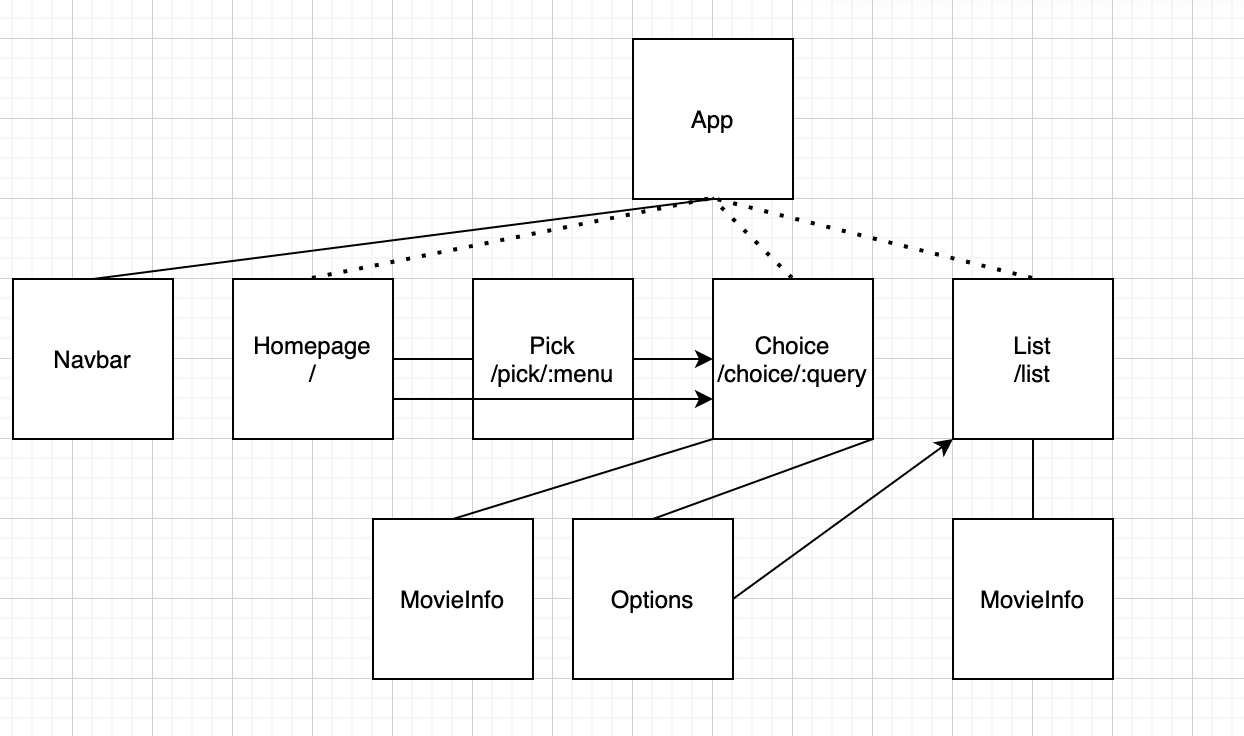
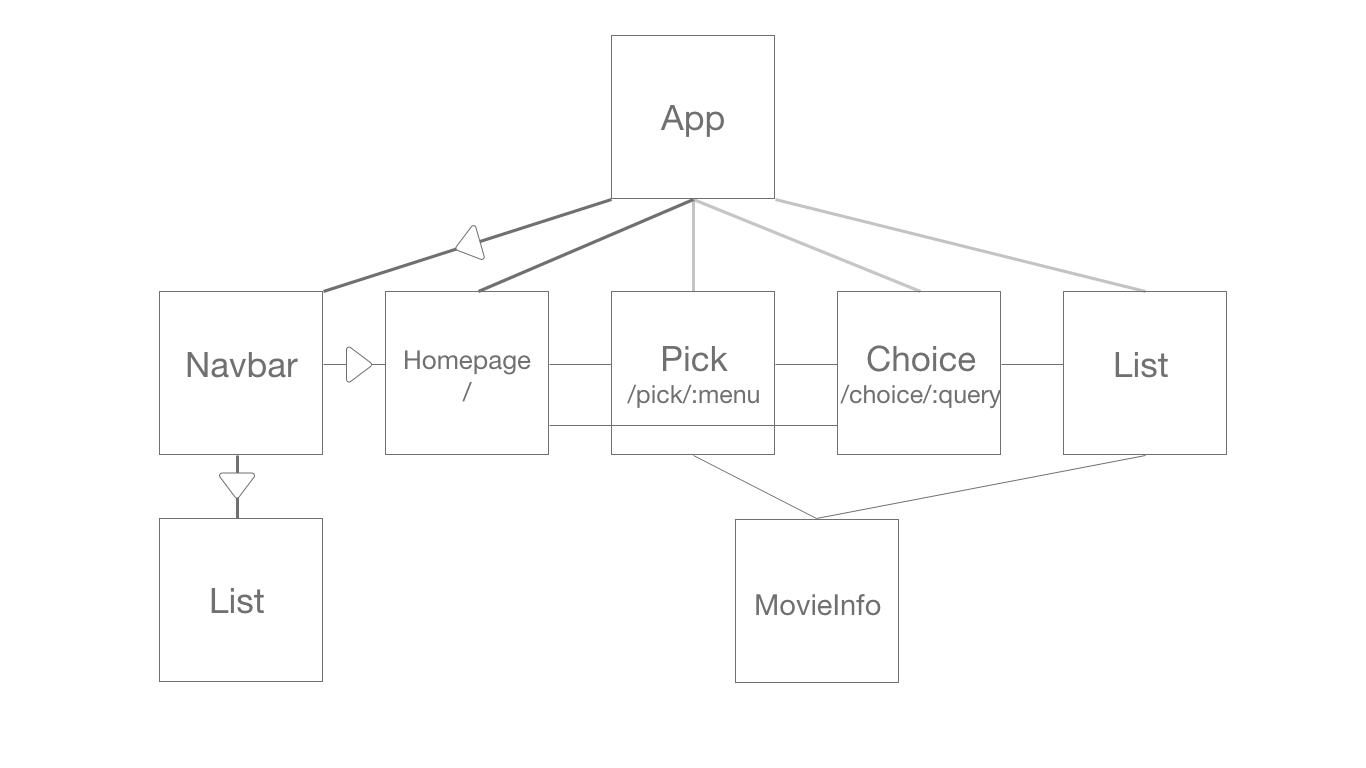
Building out 'Pick' react compenent & updated README.md

diff --git a/movie_picker/src/App.js b/movie_picker/src/App.js
@@ -1,17 +1,18 @@
 import React, { useState, useEffect } from "react";
 import axios from "axios";
-import { Link, Route } from "react-router-dom";
+import { Route } from "react-router-dom";
 //Componenets are imported below:
-// import Choice from './components/Choice/Choice'
+import Pick from './components/Pick/Pick'
 import Homepage from "./components/Homepage/Homepage";
 import List from "./components/List/List";
 import Navbar from "./components/Navbar/Navbar";
-import Options from "./components/Options/Options";
+import Choices from "./components/Choices/Choices";
 //import ".App.css"
 
 
 function App() {
-  const [fetchList, setFetchList] = useState([]);
+  const [fetchList, setFetchList] = useState(false);
+  const [list, setList] = useState([]);
   // toggle the useEffect
   useEffect(() => {
     const getList = async () => {
@@ -21,11 +22,11 @@ function App() {
           Authorization: `Bearer ${process.env.REACT_APP_AIRTABLE_KEY}`,
         },
       });
-      setFetchList(response.data.records);
+      setList(response.data.records);
     };
     getList();
     // toggle the useEffect
-  }, []);
+  }, [fetchList]);
 
   return (
     <div className="App">
@@ -38,12 +39,21 @@ function App() {
           <Route exact path="/">
             <Homepage />
           </Route>
-          <Route path="/options">
-            <Options />
+          <Route path="/pick">
+            <Pick />
+          </Route>
+          <Route path="/Choices">
+            <Choices
+              setFetchList={setFetchList}
+              fetchList={fetchList} />
           </Route>
           <div className="myList">
             <Route path="/list">
-              <List fetchList={fetchList} />
+              <List
+                list={list}
+                setFetchList={setFetchList}
+                setList={setList}
+                fetchList={fetchList} />
             </Route>
           </div>
         </div>

diff --git a/movie_picker/src/components/Choices/Choices.jsx b/movie_picker/src/components/Choices/Choices.jsx
@@ -3,9 +3,9 @@ import axios from 'axios';
 // import { Link, Route } from 'react-router-dom'
 
 
-function Options(props) {
+function Choices(props) {
     const [popEndpoint, fetchPopEndpoint] = useState([]);
-
+    const [added, setAdded] = useState(false)
     useEffect(() => {
         const popularMovies = async () => {
             const popularMoviesEndpoint = await axios.get(
@@ -19,20 +19,21 @@ function Options(props) {
     console.log(popEndpoint)
 
     const handleSubmit = async (movie) => {
+        setAdded(true);
         let image = `https://image.tmdb.org/t/p/w500${movie.poster_path}`
         const fields = {
             title: movie.title,
             poster: image,
             userRating: movie.vote_average,
         };
-        const airTableURL = `https://api.airtable.com/v0/${process.env.
-            REACT_APP_AIRTABLE_BASE}/list`
+        const airTableURL = `https://api.airtable.com/v0/${process.env.REACT_APP_AIRTABLE_BASE}/list`
         await axios.post(airTableURL, { fields }, {
             headers: {
                 Authorization: `Bearer ${process.env.REACT_APP_AIRTABLE_KEY}`
             },
         });
-        // props.setFetchReviews(!props.setFetchReviews);
+        props.setFetchList(!props.fetchList);
+        // setAdded(false);
     }
 
     console.log(popEndpoint)
@@ -44,12 +45,12 @@ function Options(props) {
                 <p className="title">{movie.title} <br /></p>
                 <p className="plotSummary">{movie.overview} <br /></p>
                 <p className="userScore" >User ratings: {movie.vote_average}/10</p>
-                <button onClick={() => handleSubmit(movie)}>Add to My List!</button>
+                <button className="button" onClick={() => handleSubmit(movie)}>{added ? "Added to My List!" : "Add to My List"}</button>
             </div>
         ))
     );
 }
 
-export default Options;
+export default Choices;
 
 //

diff --git a/movie_picker/src/components/Homepage/Homepage.jsx b/movie_picker/src/components/Homepage/Homepage.jsx
@@ -4,23 +4,19 @@ function Homepage(props) {
 
     return (
         <>
-            <div className="homePageTitle">
-                <h1>Movie Quest!</h1>
-                <h5>Find what to watch</h5>
-            </div>
             <div className="popularList">
                 {/* Redirects to options Component */}
-                <Link to="/options">
+                <Link to="/choices">
                     <button>See what's popular now!</button>
                 </Link>
             </div>
-            {/* <div className="bestOf"> */}
-            {/* Redirects to Choise Component */}
-            {/* <Link to="/choice"> */}
+            {/* <div className="pickButton"> */}
+            {/* Redirects to Pick Component */}
+            {/* <Link to="/pick"> */}
             {/* <button>Find the best movies by Year & Genre</button> */}
             {/* </Link> */}
             {/* </div> */}
-            <div className="myList">
+            <div className="myListButton">
                 {/* Redirects to List Component */}
                 <Link to="list">
                     <button>My List</button>

diff --git a/movie_picker/src/components/List/List.jsx b/movie_picker/src/components/List/List.jsx
@@ -1,6 +1,7 @@
 import React from "react";
 import axios from 'axios';
 function List(props) {
+    //This Rerender state was found on stack overflow
 
     const handleDelete = async (id) => {
         setTimeout(async () => {
@@ -10,7 +11,7 @@ function List(props) {
                     Authorization: `Bearer ${process.env.REACT_APP_AIRTABLE_KEY}`,
                 },
             });
-            // props.setFetchList();
+            props.setFetchList(!props.fetchList);
         }, 200);
     };
 
@@ -18,7 +19,7 @@ function List(props) {
     return (
         <div>
             {
-                props.fetchList.map((movie) => (
+                props.list.map((movie) => (
                     <div key={movie.id}>
                         <img src={movie.fields.poster} alt={"poster for" + movie.fields.title} /> <br />
                         <p className="title" >{movie.fields.title} <br /></p>

diff --git a/movie_picker/src/components/Pick/Pick.jsx b/movie_picker/src/components/Pick/Pick.jsx
@@ -1,0 +1,12 @@
+import React from "react";
+// import { useState, useEffect } from "react";
+// import axios from "axios";
+
+function Pick() {
+    return (
+        <div>
+
+        </div>
+    );
+}
+export default Pick

diff --git a/README.md b/README.md
@@ -85,7 +85,7 @@ This project will also use Airtable to store movies the user wants to save for l
 ```
 
 ## Component Hierarchy
-![Imgur](https://i.imgur.com/52W3RBW.png)
+![Imgur](https://i.imgur.com/Q3FlUVB.png)
 
 ## MVP/PostMVP
 
@@ -110,23 +110,23 @@ This project will also use Airtable to store movies the user wants to save for l
 |---|---| ---|
 |10-09-20| Prompt / Wireframes / Priority Matrix / Timeframes | Complete
 |10-09-20| Project Approval | Complete
-|10-11-20| React component: */* | Incomplete
-|10-12-20| Initial Clickable Model | Incomplete
-|10-14-20| Core Application Structure (HTML, CSS, etc.) | Incomplete
-|10-14-20| MVP | Incomplete
+|10-14-20| React component: */* | Complete
+|10-14-20| Initial Clickable Model | Incomplete
+|10-15-20| Core Application Structure (HTML, CSS, etc.) | Incomplete
+|10-15-20| MVP | Incomplete
 |10-16-20| Presentations | Incomplete
 
 ## Timeframes
 
 | Component | Priority | Estimated Time | Time Invested | Actual Time |
 | --- | :---: |  :---: | :---: | :---: |
-| Initial Pseudocode/Planning & App component structure| H | 2hrs| hrs | hrs |
-| Add axios to return "Popular Movies" from TMDB API w/ Query strings| H | 2hrs| hrs | hrs |
-| Create React component */* for the Homepage with Button for "Show me what's popular" | H | 4hrs| hrs | hrs |
-| Have Button redirect user to */choice/:query* | H | 3hrs| hrs | hrs |
-| Add axios to */choice/:query* from Airtable and create "Add to My List" Button | H | 4hrs| hrs | hrs |
-| Have */choice/:query* return a list of results for "Popular Movies" | H | 4hrs| hrs | hrs |
-| Allow user to select a movie from */choice/:query* and add it to "My List" | H | 4hrs| hrs | hrs |
+| Initial Pseudocode/Planning & App component structure| H | 2hrs| 3hrs | hrs |
+| Add axios to return "Popular Movies" from TMDB API w/ Query strings| H | 2hrs| 2hrs | hrs |
+| Create React component */* for the Homepage with Button for "Show me what's popular" | H | 4hrs| 5hrs | hrs |
+| Have Button redirect user to */choices/:query* | H | 3hrs| 30min | hrs |
+| Add axios to */choices/:query* from Airtable and create "Add to My List" Button | H | 4hrs| 5hrs | hrs |
+| Have */choices/:query* return a list of results for "Popular Movies" | H | 4hrs| 2hrs | hrs |
+| Allow user to select a movie from */hoices/:query* and add it to "My List" | H | 4hrs| 4hrs | hrs |
 | Create */pick/:menu* for the "Best of genre/year" with options for users to use dropdown selection for either genre or year  | H | 4hrs| hrs | hrs |
 | Have */choice/:query* return a list of results for "Best of genre/year" | H | 4hrs| hrs | hrs |
 | After MVP functionality is completed, begin initial CSS styling for "Homepage"| H | 3hrs| hrs | hrs |
@@ -153,3 +153,9 @@ This project will also use Airtable to store movies the user wants to save for l
     10/09/20: 
         - Moved the "genre-picking" to Post MVP to prioritize efficiency in coding the basic functionality for the major components
 
+    10/13/20:
+        - Made the following changes to the component hierarchy:
+            - Removed "Options" component
+            - Moved the code within "Options" to "Choices" for better organization 
+        Component Hierarchy updated to appropriately reflect the changes.
+        - Updated deliverables on Timeframes.
